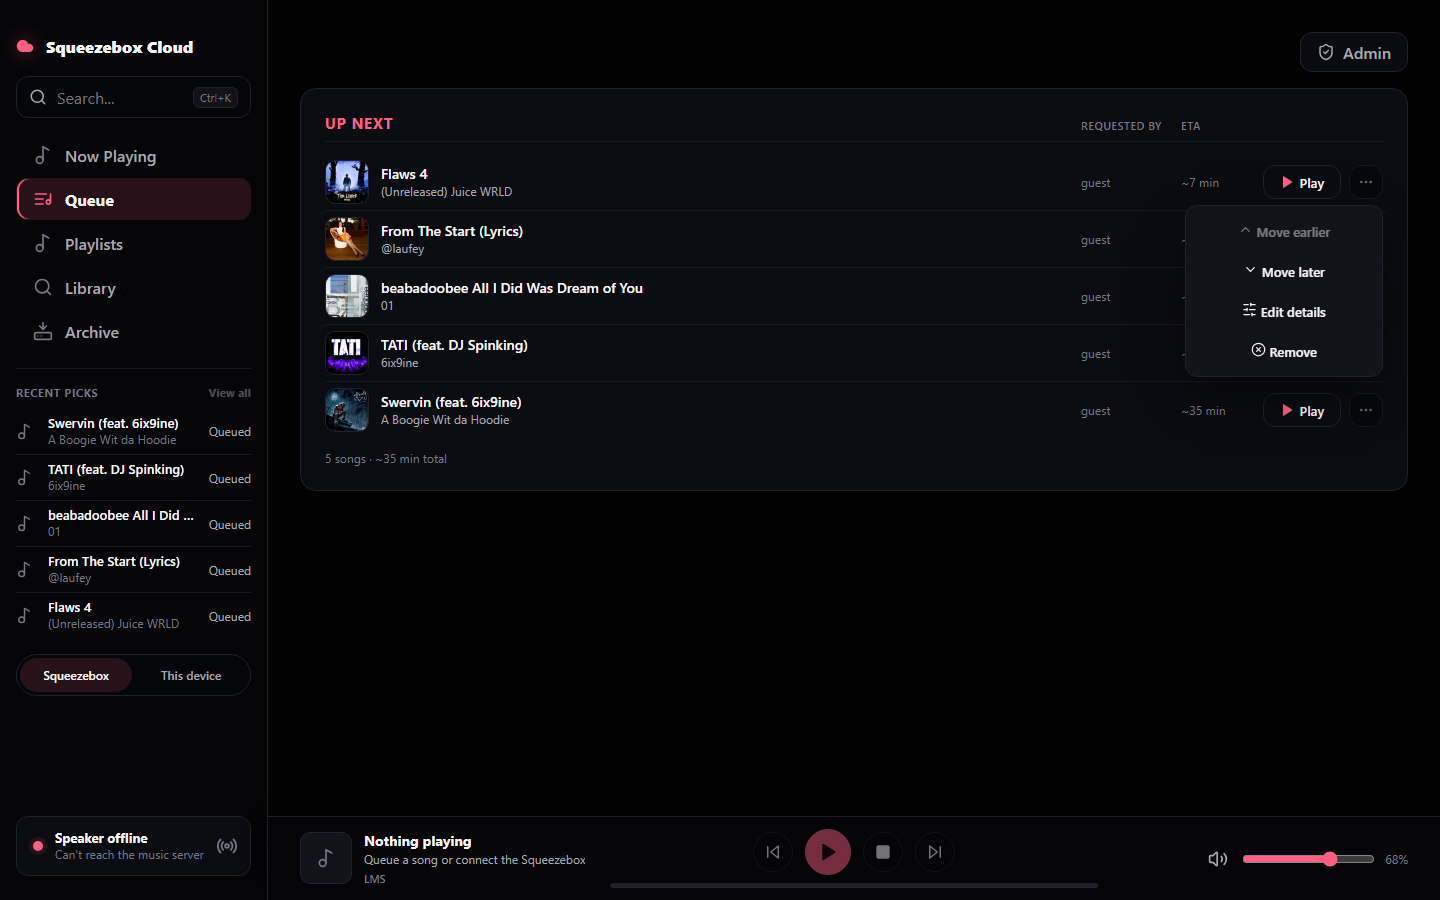
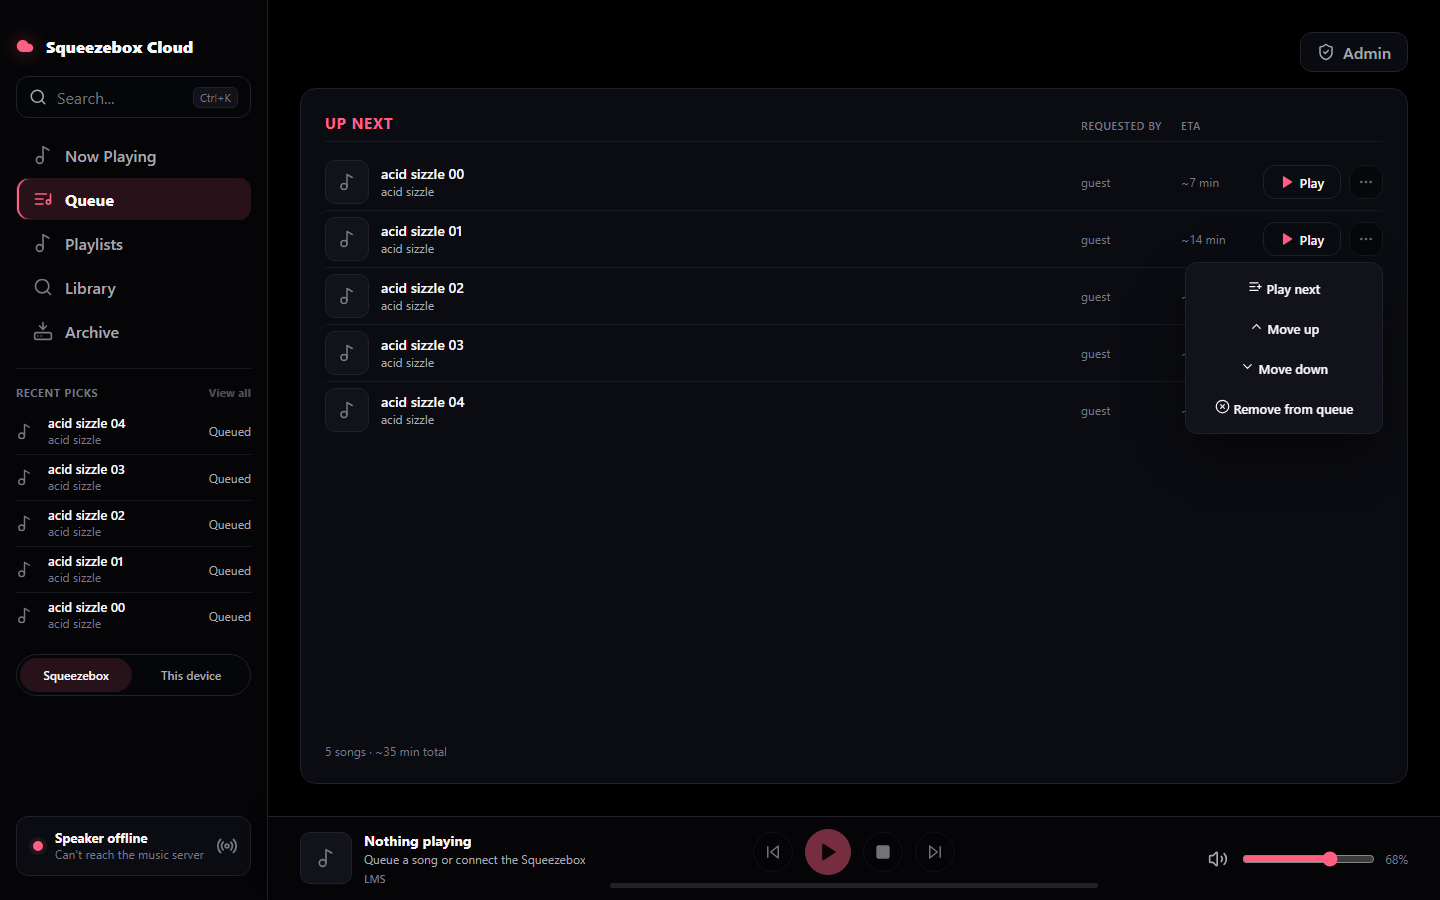
Fix queue actions and fill short list pages

diff --git a/src/App.tsx b/src/App.tsx
@@ -79,7 +79,6 @@ import {
   searchSpotifyGrouped,
   seekPlayer,
   setPlayerVolume,
-  updateQueueItem,
   uploadTrack,
 } from "./lib/api";
 import type { ArchiveFile, ArchiveJob, ArchiveGroup, ArchiveScan } from "./lib/api";
@@ -596,14 +595,14 @@ function PublicScreen({
   // on Now Playing (fixing the original's irrelevant-rail-on-Library defect).
   if (activeScreen === "Queue") {
     return (
-      <div className="stage">
+      <div className="stage stage--fill">
         {mode === "local" ? <LocalQueuePanel /> : <QueuePanel queue={state.queue} requestsOpen={publicRequestsOpen(state)} onRefresh={onRefresh} onAction={onAction} />}
       </div>
     );
   }
 
   if (activeScreen === "Library") {
-    return <div className="stage">{commonSearch}</div>;
+    return <div className="stage stage--fill">{commonSearch}</div>;
   }
 
   if (activeScreen === "Playlists") {
@@ -1091,23 +1090,8 @@ function VolumeControl({ volume, onChange }: { volume: number; onChange: (volume
 }
 
 function QueuePanel({ queue, requestsOpen, onRefresh, onAction }: { queue: AppState["queue"]; requestsOpen: boolean; onRefresh: () => void; onAction: ActionRunner }) {
-  const [editingId, setEditingId] = useState<string | null>(null);
-  const [draft, setDraft] = useState({ title: "", artist: "" });
   const [showAll, setShowAll] = useState(false);
   const visibleQueue = showAll ? queue : queue.slice(0, 12);
-
-  function beginEdit(item: AppState["queue"][number]) {
-    setEditingId(item.id);
-    setDraft({ title: item.title, artist: item.artist });
-  }
-
-  async function saveEdit(id: string) {
-    await onAction(async () => {
-      await updateQueueItem(id, draft);
-      setEditingId(null);
-      await onRefresh();
-    });
-  }
 
   return (
     <section className="panel queue-panel" aria-label="Up next">
@@ -1119,7 +1103,7 @@ function QueuePanel({ queue, requestsOpen, onRefresh, onAction }: { queue: AppSt
       <div className="queue-list">
         {queue.length === 0 && <EmptyState title="Queue is empty" detail="Requests will appear here after someone adds a real local or Spotify track." />}
         {visibleQueue.map((item, index) => (
-          <QueueRow key={item.id} item={item} index={index} queueLength={queue.length} requestsOpen={requestsOpen} editingId={editingId} draft={draft} setDraft={setDraft} beginEdit={beginEdit} saveEdit={saveEdit} cancelEdit={() => setEditingId(null)} onRefresh={onRefresh} onAction={onAction} />
+          <QueueRow key={item.id} item={item} index={index} queueLength={queue.length} requestsOpen={requestsOpen} onRefresh={onRefresh} onAction={onAction} />
         ))}
         {queue.length > 12 && (
           <button className="ghost-add queue-show-all" aria-expanded={showAll} onClick={() => setShowAll((value) => !value)}>
@@ -1139,12 +1123,6 @@ function QueueRow({
   index,
   queueLength,
   requestsOpen,
-  editingId,
-  draft,
-  setDraft,
-  beginEdit,
-  saveEdit,
-  cancelEdit,
   onRefresh,
   onAction
 }: {
@@ -1152,74 +1130,71 @@ function QueueRow({
   index: number;
   queueLength: number;
   requestsOpen: boolean;
-  editingId: string | null;
-  draft: { title: string; artist: string };
-  setDraft: (draft: { title: string; artist: string }) => void;
-  beginEdit: (item: AppState["queue"][number]) => void;
-  saveEdit: (id: string) => void;
-  cancelEdit: () => void;
   onRefresh: () => void;
   onAction: ActionRunner;
 }) {
-  const isEditing = editingId === item.id;
-  // External tracks carry their identity in uri OR in id (spotify:/archive:), and
-  // Spotify rows aren't locally editable — only auto-queued shuffle rows are excluded too.
-  const isExternal = Boolean(item.uri) || /^(spotify|archive):/.test(item.id) || item.source === "Spotify";
-  const editable = !isExternal && item.requestedBy !== "shuffle" && item.requestedBy !== "smart shuffle";
 
   return (
-    <div className={`queue-row ${isEditing ? "is-editing" : ""}`}>
+    <div className="queue-row">
       <div className="mini-art">
         {item.art || item.artwork ? <img src={item.art || item.artwork || ""} alt="" /> : <Music2 size={18} />}
       </div>
-      {isEditing ? (
-        <div className="queue-edit-fields">
-          <small>Editing queue item</small>
-          <input aria-label="Queue title" value={draft.title} onChange={(event) => setDraft({ ...draft, title: event.currentTarget.value })} />
-          <input aria-label="Queue artist" value={draft.artist} onChange={(event) => setDraft({ ...draft, artist: event.currentTarget.value })} />
-        </div>
-      ) : (
-        <div>
-          <strong>{item.title}</strong>
-          <small>{item.artist}</small>
-          {/* On phones the requested-by/ETA columns have no headers, so the same
-              facts are composed into the meta cell as one labelled line. */}
-          <small className="queue-row__request">Requested by {item.requestedBy} · ~{item.etaMinutes} min</small>
-        </div>
-      )}
+      <div>
+        <strong>{item.title}</strong>
+        <small>{item.artist}</small>
+        <small className="queue-row__request" aria-label={`Requested by ${item.requestedBy}; ETA about ${item.etaMinutes} minutes`}>
+          {item.requestedBy} - ~{item.etaMinutes} min
+        </small>
+      </div>
       <span>{item.requestedBy}</span>
       <span>~{item.etaMinutes} min</span>
       <div className="queue-actions">
         <button className="primary-small row-play" disabled={!requestsOpen} onClick={() => onAction(async () => { await playTrack("play-now", item); await onRefresh(); })}>
           <Play size={14} />Play
         </button>
-        <RowMenu label={`More queue actions for ${item.title}`}>
-          <button className="row-menu__item" disabled={index === 0 || !requestsOpen} onClick={() => onAction(async () => { await moveQueueItem(item.id, "up"); await onRefresh(); })}>
-            <ChevronUp size={15} /> Move earlier
-          </button>
-          <button className="row-menu__item" disabled={index === queueLength - 1 || !requestsOpen} onClick={() => onAction(async () => { await moveQueueItem(item.id, "down"); await onRefresh(); })}>
-            <ChevronDown size={15} /> Move later
-          </button>
-          {isEditing ? (
-            <button className="row-menu__item" disabled={!requestsOpen} onClick={() => saveEdit(item.id)}>
-              <Check size={15} /> Save edits
-            </button>
-          ) : editable ? (
-            <button className="row-menu__item" disabled={!requestsOpen} onClick={() => beginEdit(item)}>
-              <SlidersHorizontal size={15} /> Edit details
-            </button>
-          ) : null}
-          {isEditing && (
-            <button className="row-menu__item" onClick={cancelEdit}>
-              <XCircle size={15} /> Cancel editing
-            </button>
-          )}
-          <button className="row-menu__item danger" disabled={!requestsOpen} onClick={() => onAction(async () => { await removeQueueItem(item.id); await onRefresh(); })}>
-            <XCircle size={15} /> Remove
-          </button>
-        </RowMenu>
+        <QueueRowMenu item={item} index={index} queueLength={queueLength} requestsOpen={requestsOpen} onRefresh={onRefresh} onAction={onAction} />
       </div>
     </div>
+  );
+}
+
+function QueueRowMenu({
+  item,
+  index,
+  queueLength,
+  requestsOpen,
+  onRefresh,
+  onAction
+}: {
+  item: AppState["queue"][number];
+  index: number;
+  queueLength: number;
+  requestsOpen: boolean;
+  onRefresh: () => void;
+  onAction: ActionRunner;
+}) {
+  async function move(direction: "up" | "down" | number) {
+    await onAction(async () => {
+      await moveQueueItem(item.id, direction);
+      await onRefresh();
+    });
+  }
+
+  return (
+    <RowMenu label={`Queue actions for ${item.title}`}>
+      <button className="row-menu__item" disabled={index === 0 || !requestsOpen} onClick={() => move(0)}>
+        <ListPlus size={15} /> Play next
+      </button>
+      <button className="row-menu__item" disabled={index === 0 || !requestsOpen} onClick={() => move("up")}>
+        <ChevronUp size={15} /> Move up
+      </button>
+      <button className="row-menu__item" disabled={index === queueLength - 1 || !requestsOpen} onClick={() => move("down")}>
+        <ChevronDown size={15} /> Move down
+      </button>
+      <button className="row-menu__item danger" disabled={!requestsOpen} onClick={() => onAction(async () => { await removeQueueItem(item.id); await onRefresh(); })}>
+        <XCircle size={15} /> Remove from queue
+      </button>
+    </RowMenu>
   );
 }
 

diff --git a/tests/App.test.tsx b/tests/App.test.tsx
@@ -277,17 +277,18 @@ describe("Cloud Squeeze UI", () => {
     expect(await screen.findByRole("alert")).toHaveTextContent("That song is already in the queue");
   });
 
-  it("does not send requester ownership when editing queue metadata", async () => {
+  it("uses queue-specific actions and moves an existing row to play next", async () => {
     const fetchMock = vi.mocked(fetch);
     const defaultFetch = fetchMock.getMockImplementation();
-    // Editing is only offered for LOCAL queue items (you don't own a Spotify track's
-    // metadata) — so seed an editable local item rather than the default Spotify one.
     fetchMock.mockImplementation(async (url: string, options?: RequestInit) => {
       if (url.includes("/api/state")) {
         return jsonResponse({
           player: { id: "p1", name: "Test Speaker", connected: true, online: true, mode: "play", volume: 68 },
           nowPlaying: { id: "t1", title: "Midnight City", artist: "M83", album: "Hurry Up", source: "Spotify", duration: 243, elapsed: 151, canSeek: true },
-          queue: [{ id: "q1", title: "Awake", artist: "Tycho", source: "Local library", path: "/music/Awake.mp3", requestedBy: "alex", etaMinutes: 7 }],
+          queue: [
+            { id: "q1", title: "Awake", artist: "Tycho", source: "Local library", path: "/music/Awake.mp3", requestedBy: "alex", etaMinutes: 7 },
+            { id: "q2", title: "Hours", artist: "Tycho", source: "Local library", path: "/music/Hours.mp3", requestedBy: "sam", etaMinutes: 14 }
+          ],
           recentPicks: [],
           schedule: { current: { name: "Open Queue", until: "10:00 PM", requestsPaused: false }, next: { name: "Quiet Hours", time: "10:00 PM - 8:00 AM", requestsPaused: true } },
           rules: [],
@@ -304,56 +305,29 @@ describe("Cloud Squeeze UI", () => {
     });
     render(<App />);
     await userEvent.click(await screen.findByRole("button", { name: "Queue" }));
-    const row = (await screen.findByText("Awake")).closest(".queue-row") as HTMLElement;
-    await userEvent.click(within(row).getByRole("button", { name: /More queue actions/ }));
-    await userEvent.click(screen.getByRole("button", { name: "Edit details" }));
+    const row = (await screen.findByText("Hours")).closest(".queue-row") as HTMLElement;
+    await userEvent.click(within(row).getByRole("button", { name: "Queue actions for Hours" }));
 
-    expect(screen.queryByLabelText("Requested by")).not.toBeInTheDocument();
-    await userEvent.clear(screen.getByLabelText("Queue title"));
-    await userEvent.type(screen.getByLabelText("Queue title"), "Edited Awake");
-    await userEvent.clear(screen.getByLabelText("Queue artist"));
-    await userEvent.type(screen.getByLabelText("Queue artist"), "Edited Tycho");
-    await userEvent.click(within(row).getByRole("button", { name: /More queue actions/ }));
-    await userEvent.click(screen.getByRole("button", { name: "Save edits" }));
+    expect(screen.getByRole("button", { name: "Play next" })).toBeInTheDocument();
+    expect(screen.getByRole("button", { name: "Move up" })).toBeInTheDocument();
+    expect(screen.getByRole("button", { name: "Move down" })).toBeDisabled();
+    expect(screen.getByRole("button", { name: "Remove from queue" })).toBeInTheDocument();
+    expect(screen.queryByRole("button", { name: "Add to queue" })).not.toBeInTheDocument();
+    await userEvent.click(screen.getByRole("button", { name: "Play next" }));
 
     await waitFor(() => {
-      const patchCall = fetchMock.mock.calls.find(([url, options]) => String(url).includes("/api/queue/") && options?.method === "PATCH");
-      expect(patchCall).toBeTruthy();
-      expect(JSON.parse(String(patchCall?.[1]?.body))).toEqual({ title: "Edited Awake", artist: "Edited Tycho" });
+      const moveCall = fetchMock.mock.calls.find(([url, options]) => String(url).includes("/api/queue/q2/move") && options?.method === "POST");
+      expect(moveCall).toBeTruthy();
+      expect(JSON.parse(String(moveCall?.[1]?.body))).toEqual({ index: 0 });
     });
   });
 
-  it("does not offer metadata editing for Spotify queue rows", async () => {
-    const fetchMock = vi.mocked(fetch);
-    const defaultFetch = fetchMock.getMockImplementation();
-    fetchMock.mockImplementation(async (url: string, options?: RequestInit) => {
-      if (url.includes("/api/state")) {
-        return jsonResponse({
-          player: { id: "p1", name: "Test Speaker", connected: true, online: true, mode: "play", volume: 68 },
-          nowPlaying: { id: "t1", title: "Midnight City", artist: "M83", album: "Hurry Up", source: "Spotify", duration: 243, elapsed: 151, canSeek: true },
-          queue: [{ id: "q1", title: "Awake", artist: "Tycho", source: "Spotify", uri: "spotify:track:awake", requestedBy: "alex", etaMinutes: 7 }],
-          recentPicks: [],
-          schedule: { current: { name: "Open Queue", until: "10:00 PM", requestsPaused: false }, next: { name: "Quiet Hours", time: "10:00 PM - 8:00 AM", requestsPaused: true } },
-          rules: [],
-          services: {
-            spotify: { configured: true, reachable: true, detail: "ok" },
-            localLibrary: { root: "Downloads", reachable: true, trackCount: 2 },
-            musicInfo: { configured: true, reachable: true, detail: "Plugin ready" }
-          },
-          trackInfo: { artistBio: "", albumReview: "", lyrics: "" },
-          admin: { publicRequests: true, maxQueuePerUser: 3, moderation: "basic", scheduleEnabled: true }
-        });
-      }
-      return defaultFetch?.(url, options) ?? jsonResponse({ ok: true });
-    });
-
+  it("renders requester and ETA together in mobile queue metadata", async () => {
     render(<App />);
     await userEvent.click(await screen.findByRole("button", { name: "Queue" }));
 
     const row = (await screen.findByText("Awake")).closest(".queue-row") as HTMLElement;
-    await userEvent.click(within(row).getByRole("button", { name: /More queue actions/ }));
-    expect(screen.queryByRole("button", { name: "Edit details" })).not.toBeInTheDocument();
-    expect(screen.getByRole("button", { name: "Remove" })).toBeInTheDocument();
+    expect(within(row).getByLabelText("Requested by alex; ETA about 7 minutes")).toHaveTextContent("alex - ~7 min");
   });
 
   it("disables public track actions when requests are paused", async () => {

diff --git a/src/styles.css b/src/styles.css
@@ -279,6 +279,7 @@ nav button.active svg { color: var(--rose); }
 .main {
   grid-area: main;
   min-width: 0;
+  min-height: 0;
   padding: var(--s6) var(--s6) var(--s6);
   display: flex;
   flex-direction: column;
@@ -311,6 +312,21 @@ nav button.active svg { color: var(--rose); }
 
 /* the content stage IS the active section */
 .stage { display: grid; gap: var(--s4); align-content: start; min-height: 0; }
+.stage--fill {
+  flex: 1;
+  grid-template-rows: minmax(min-content, 1fr);
+}
+.stage--fill > .panel {
+  min-height: 100%;
+  display: flex;
+  flex-direction: column;
+}
+.stage--fill .queue-list,
+.stage--fill .search-panel > .result-list,
+.stage--fill .search-panel > .search-detail {
+  flex: 1;
+  align-content: start;
+}
 .stage--split {
   grid-template-columns: minmax(0, 1.6fr) minmax(280px, .9fr);
   align-items: start;
@@ -535,7 +551,6 @@ nav button.active svg { color: var(--rose); }
 /* result rows carry 4 cells: art · meta · duration · actions */
 .result-row { grid-template-columns: 44px minmax(0, 1fr) 60px minmax(148px, auto); }
 .queue-row:hover, .result-row:hover { background: var(--panel-2); }
-.queue-row.is-editing { align-items: start; }
 .queue-row + .queue-row, .result-row + .result-row { border-top: 1px solid var(--line-soft); }
 .mini-art, .cover-thumb {
   width: 44px; height: 44px; flex: none;
@@ -621,11 +636,6 @@ nav button.active svg { color: var(--rose); }
 .icon-text { display: inline-flex; align-items: center; gap: 5px; }
 .inline-status { color: var(--muted); white-space: nowrap; font-size: 12px; }
 .danger-text { color: var(--danger-text); }
-
-/* queue inline edit */
-.queue-edit-fields { display: grid; gap: 6px; }
-.queue-edit-fields small { color: var(--rose); font-size: 11px; font-weight: 700; text-transform: uppercase; letter-spacing: .04em; }
-.queue-edit-fields input { min-height: 32px; padding: 0 var(--s2); border: 1px solid var(--line); border-radius: 10px; background: var(--field); }
 
 /* ============================================================= LIBRARY + PLAYLISTS */
 .source-tabs { display: flex; flex-wrap: wrap; gap: var(--s2); margin: var(--s3) 0 var(--s4); }

diff --git a/src/lib/api.ts b/src/lib/api.ts
@@ -285,11 +285,11 @@ export async function removeQueueItem(id: string) {
   return responseJson(response, "Queue removal failed");
 }
 
-export async function moveQueueItem(id: string, direction: "up" | "down") {
+export async function moveQueueItem(id: string, direction: "up" | "down" | number) {
   const response = await fetch(`${apiBase}/queue/${encodeURIComponent(id)}/move`, {
     method: "POST",
     headers: { "Content-Type": "application/json" },
-    body: JSON.stringify({ direction })
+    body: JSON.stringify(typeof direction === "number" ? { index: direction } : { direction })
   });
   return responseJson(response, "Queue move failed");
 }
